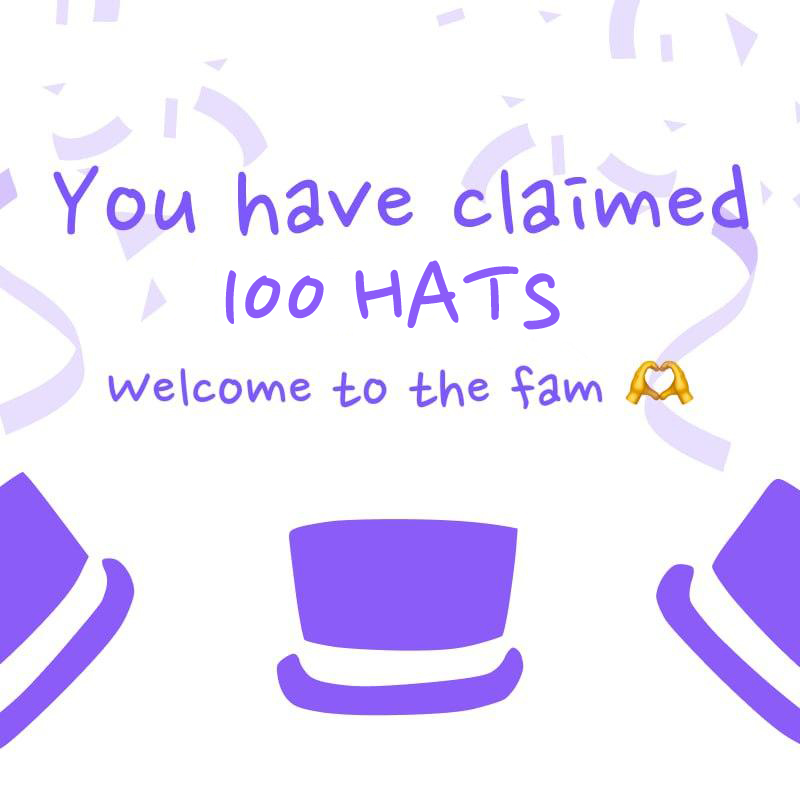
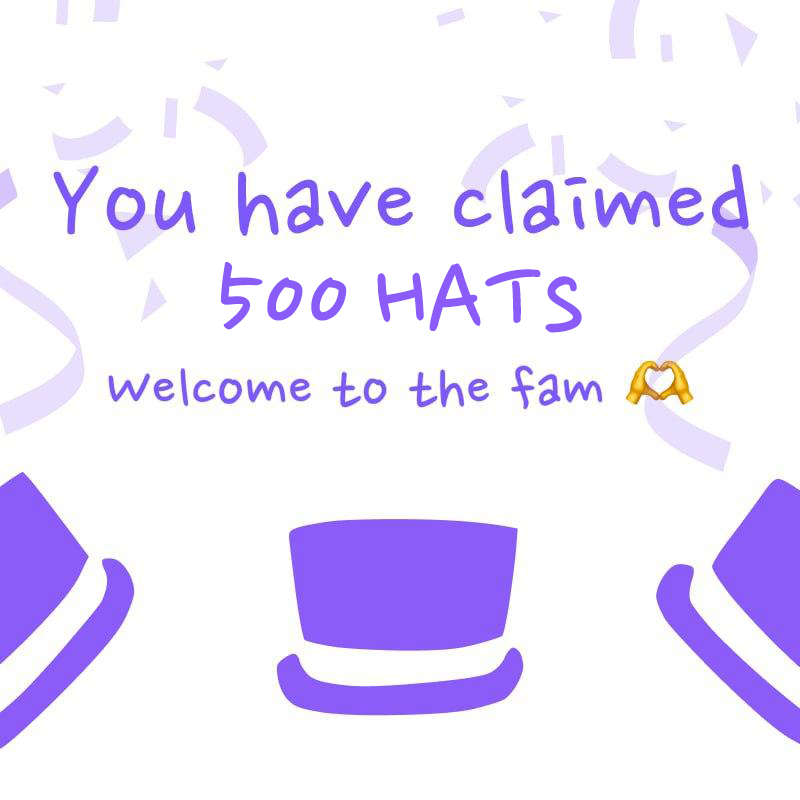
+500 on frame

Changed region(s): [[0.25, 0.3125, 0.75, 0.4375]]

diff --git a/src/app/api/frame/route.ts b/src/app/api/frame/route.ts
@@ -84,7 +84,7 @@ function getResponse(type: ResponseType) {
         		<meta name="fc:frame:button:2:target" content="https://warpcast.com/neged" />
 				`
           : `
-        <meta name="fc:frame:button:1" content="Claim 100 HATs" />
+        <meta name="fc:frame:button:1" content="Claim 500 HATs" />
         <meta name="fc:frame:button:1:action" content="post" />
         <meta name="fc:frame:button:1:target" content="${env.SITE_URL}/api/frame/" />
       `

diff --git a/src/app/backend.ts b/src/app/backend.ts
@@ -16,5 +16,5 @@ export async function addUser(address: string) {
 }
 
 export function shareOnWarpCast() {
-  return `https://warpcast.com/~/compose?text=I just claimed 100 HATs from @neged!&embeds[]=${env.SITE_URL}`
+  return `https://warpcast.com/~/compose?text=I just claimed some HATs from @neged!&embeds[]=${env.SITE_URL}`
 }

diff --git a/README.md b/README.md
@@ -1,5 +1,5 @@
 # negeD hat claim frame
 
-This frames allows to claim 100 HATs from the backend
+This frames allows to claim some HATs from the backend
 
 I do not recommend to re-use this code, better try [frog.fm](https://frog.fm/) or [framejs.org](https://framesjs.org/)
